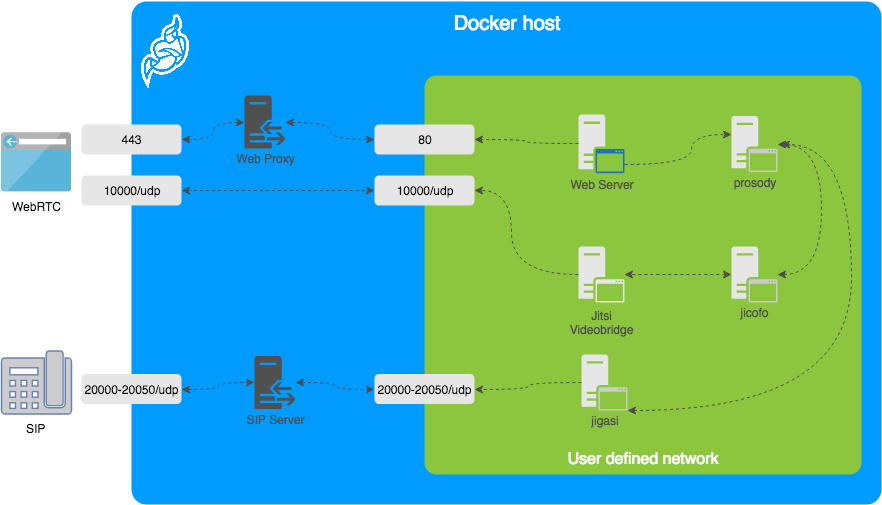
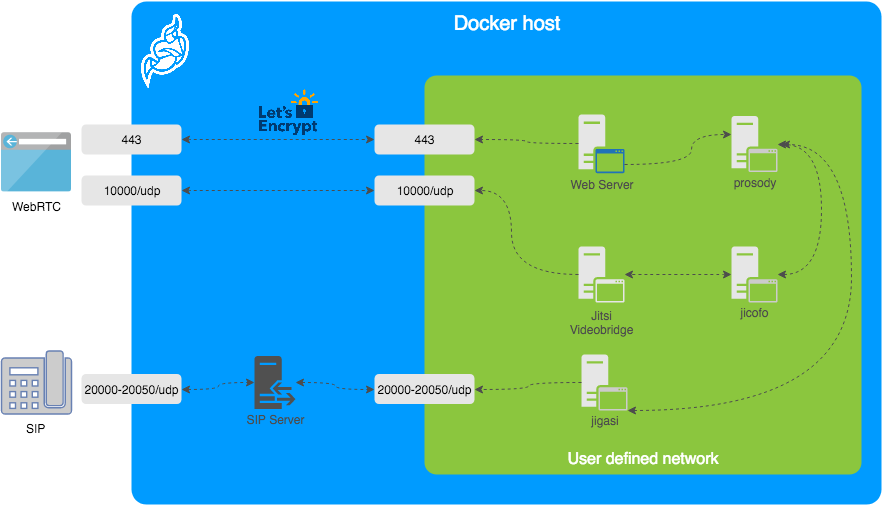
web: add builtin Let's Encrypt support

Changed region(s): [[0.2449, 0.1782, 0.3673, 0.3267], [0.5204, 0.0297, 0.6429, 0.0594], [0.4592, 0.2673, 0.4898, 0.297]]

diff --git a/README.md b/README.md
@@ -51,11 +51,8 @@ A Jitsi Meet installation can be broken down into the following components:
 
 ![](resources/docker-jitsi-meet.png)
 
-The diagram shows a typical deployment in a host running Docker, with a separate container
-(not included in this project) which acts as a reverse proxy and SSL terminator, then
-passing the traffic to the web container serving Jitsi Meet.
-
-This project separates each of the components above into interlinked containers. To this end,
+The diagram shows a typical deployment in a host running Docker. This project
+separates each of the components above into interlinked containers. To this end,
 several container images are provided.
 
 ### Images
@@ -90,6 +87,23 @@ Variable | Description | Example
 `HTTP_PORT` | Exposed port for HTTP traffic | 8000
 `HTTPS_PORT` | Exposed port for HTTPS traffic | 8443
 `DOCKER_HOST_ADDRESS` | IP address of the Docker host, needed for LAN environments | 192.168.1.1
+
+**NOTE**: The mobile apps won't work with self-signed certificates (the default)
+see below for instructions on how to obtain a proper certificate with Let's Encrypt.
+
+### Let's Encrypt configuration
+
+If you plan on exposing this container setup to the outside traffic directly and
+want a proper TLS certificate, you are in luck because Let's Encrypt support is
+built right in. Here are the required options:
+
+Variable | Description | Example
+--- | --- | ---
+`ENABLE_LETSENCRYPT` | Enable Let's Encrypt certificate generation | 1
+`LETSENCRYPT_DOMAIN` | Domain for which to generate the certificate | meet.example.com
+`LETSENCRYPT_EMAIL` | E-Mail for receiving important account notifications (mandatory) | alice@atlanta.net
+
+In addition, you will need to set `HTTP_PORT` to 80 and `HTTPS_PORT` to 443.
 
 ### SIP gateway configuration
 
@@ -162,7 +176,6 @@ option.
 * Support multiple Jitsi Videobridge containers.
 * Support container replicas (where applicable).
 * Docker Swarm mode.
-* Native Let's Encrypt support.
 * More services:
   * Jibri.
   * TURN server.
